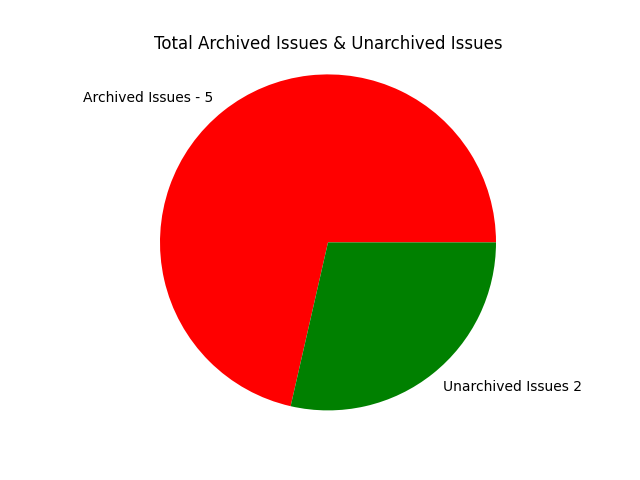
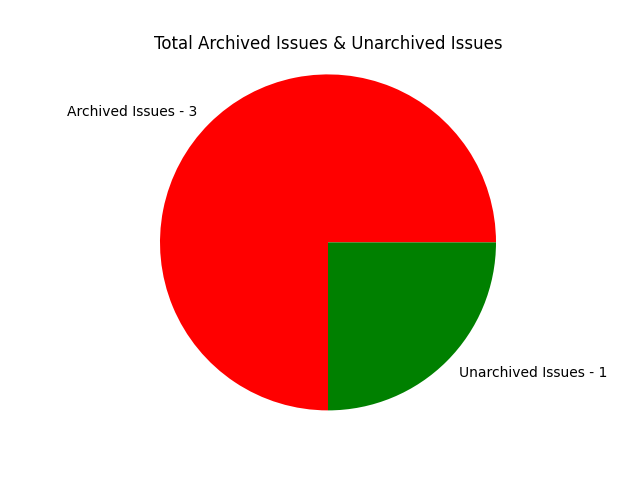
Login & archive
Created accounts and styled archived results in search

Changed region(s): [[0.4375, 0.5312, 0.5312, 0.875], [0.0938, 0.1875, 0.3438, 0.25], [0.6875, 0.75, 0.9062, 0.8125]]

diff --git a/templates/account_base.html b/templates/account_base.html
@@ -1,0 +1,27 @@
+<!DOCTYPE html>
+<html lang="en">
+<head>
+    <meta charset="UTF-8">
+    <meta name="viewport" content="width=device-width, initial-scale=1.0">
+    <title>Issue Tracker</title>
+    <link href="https://maxcdn.bootstrapcdn.com/bootstrap/4.5.2/css/bootstrap.min.css" rel="stylesheet">
+    <link rel="stylesheet" href="{{ url_for('static', filename='css/style.css') }}">
+</head>
+<body class="d-flex flex-column min-vh-100">
+    <div class="container my-auto">
+        <main class="row justify-content-center">
+            <div class="col-md-6">
+                {% block content %}{% endblock %}
+            </div>
+        </main>
+    </div>
+
+    <footer class="mt-auto py-3 text-center bg-light">
+        <p>View personal <a href="https://gregsternik.netlify.app" target="_blank">Site</a></p>
+    </footer>
+
+    <script src="https://ajax.googleapis.com/ajax/libs/jquery/3.5.1/jquery.min.js"></script>
+    <script src="https://cdnjs.cloudflare.com/ajax/libs/popper.js/1.16.0/umd/popper.min.js"></script>
+    <script src="https://maxcdn.bootstrapcdn.com/bootstrap/4.5.2/js/bootstrap.min.js"></script>
+</body>
+</html>

diff --git a/templates/account.html b/templates/account.html
@@ -1,0 +1,32 @@
+{% extends "base.html" %}
+
+{% block content %}
+
+<h2 class="text-center">Manage Account</h2>
+<p class="text-center">Welcome {{session['username']}}, manage your account and details here:</p>
+<div class="d-flex flex-column justify-content-center align-items-center">
+
+    <form action="/logout" method="POST">
+        <button class="btn btn-primary mb-2">Sign Out</button>
+    </form>
+
+    <form action="/delete_account" method="POST" id="delete_form">
+        <button type="button" class="delete-btn btn btn-danger">Delete Account</button>
+    </form>
+</div>
+
+<script src="https://code.jquery.com/jquery-3.6.0.min.js"></script>
+<script>
+    $(document).ready(() => {
+        console.log("click")
+
+        $(".delete-btn").on("click", () => {
+            if(confirm("This is a permanent action. Are you sure you want to delete your account?")){
+                $("#delete_form").submit();
+            }
+        })
+
+    })
+</script>
+
+{% endblock %}

diff --git a/templates/signup.html b/templates/signup.html
@@ -1,0 +1,33 @@
+{% extends "account_base.html" %}
+
+{% block content %}
+
+<h2 class="text-center">Sign Up</h2>
+<form action="signup" method="POST">
+    <div class="">
+
+        <div class="form-group">
+            <label for="username">Username</label>
+            <input required class="form-control" name="username" id="username" type="text">  
+        </div>
+
+        <div class="form-group">
+            <label for="password">Password</label>
+            <input required minlength="8" class="form-control" name="password" id="password" type="password">
+        </div>
+        
+        <button class="btn btn-primary">Submit</button>
+
+        {% if error %}
+            <p class="alert alert-warning">{{ error }}</p>
+        {% endif %}
+
+    </div>
+</form>
+
+<hr>
+<div class="row align-items-center justify-content-center">
+    <p class="mb-0 mr-2">or</p> <a href="/login">Login</a>
+</div>
+
+{% endblock %}

diff --git a/templates/login.html b/templates/login.html
@@ -1,0 +1,33 @@
+{% extends "account_base.html" %}
+
+{% block content %}
+
+<h2 class="text-center">Login</h2>
+<form action="login" method="POST">
+    <div class="">
+
+        <div class="form-group">
+            <label for="username">Username</label>
+            <input class="form-control" name="username" id="username" type="text">  
+        </div>
+
+        <div class="form-group">
+            <label for="password">Password</label>
+            <input class="form-control" name="password" id="password" type="password">
+        </div>
+        
+        <button class="btn btn-primary">Submit</button>
+
+        {% if error %}
+            <p class="alert alert-warning">{{ error }}</p>
+        {% endif %}
+
+    </div>
+</form>
+
+<hr>
+<div class="row align-items-center justify-content-center">
+    <p class="mb-0 mr-2">or</p> <a href="/signup">Signup</a>
+</div>
+
+{% endblock %}

diff --git a/templates/search.html b/templates/search.html
@@ -24,13 +24,17 @@
 {% if issues %}
     <div class="row search-result">
         {% for issue in issues %}
-            <div class="col-md-4 mb-4">
+            <div class="col-md-4 mb-4 mt-5">
                 <div class="card h-100">
-                    <div class="card-body">
+                    <div class="card-body search-result">
                         <h2 class="card-title">{{ issue[1] }}</h2>
                         <p class="card-text">ID: {{ issue[0] }}</p>
                         <p class="card-text">{{ issue[2] }}</p>
                         <a href="/issue_{{ issue[0] }}" class="link-primary">View</a>
+                        
+                        {% if issue[4] %}
+                        <div class="archived-tag">Archived</div>
+                        {% endif %}
                     </div>
                 </div>
             </div>

diff --git a/static/css/style.css b/static/css/style.css
@@ -17,3 +17,26 @@
 .dark{
     filter: brightness(0);
 }
+
+/* remainder of page after navbar */
+
+.fill{
+    min-height: calc(100vh - 56px - 56px)
+}
+
+/* Tag for archived results */
+
+.search-result{
+    position: relative;
+}
+
+.archived-tag{
+    position: absolute;
+    top: -45px;
+    left: 0px;
+    height: fit-content;
+    padding: 10px;
+    background-color: black;
+    color: white;
+    border-radius: 10px 10px 0px 0px;
+}

diff --git a/templates/base.html b/templates/base.html
@@ -26,6 +26,9 @@
                     <li class="nav-item">
                        <a class="nav-link" href="/add">Create</a> 
                     </li>
+                    <li class="nav-item">
+                        <a class="nav-link" href="/account">Account</a> 
+                     </li>
                 </ul>
             </div>
         </nav>

diff --git a/templates/issue.html b/templates/issue.html
@@ -13,7 +13,7 @@
         status-closed
     {% endif %}
     ">{{ issue[3] }}</p>
-
+    <p class="text-center">Author - {{ issue[5] }}</p>
     <hr>
 
     <form action="/issue_{{ issue[0] }}" method="POST" class="container mt-4">

diff --git a/app.py b/app.py
@@ -1,4 +1,4 @@
-from flask import Flask, render_template, request, redirect, url_for
+from flask import Flask, render_template, request, redirect, url_for, session
 import sqlite3
 
 import matplotlib
@@ -6,6 +6,7 @@ matplotlib.use('Agg')
 import matplotlib.pyplot as plt
 
 app = Flask(__name__)
+app.secret_key = b"6gtaptngf65/;g'7/e35#3]"
 
 # Function to get a SQLite connection
 def get_conn():
@@ -91,18 +92,86 @@ def create_graph():
         total = sum(counts)
         a_total = sum(a_counts)
 
-        plt.pie([total, a_total] , colors=["red", "green"],  labels=[f"Archived Issues - {total}", f"Unarchived Issues {a_total}"])
+        #error may occur due to lack of input
+        if total > 0 or a_total > 0:
+            plt.pie([total, a_total], colors=["red", "green"], labels=[f"Archived Issues - {total}", f"Unarchived Issues - {a_total}"])
+        else:
+            plt.pie([1, 1], colors=["red", "green"], labels=[f"No Archived Issues", f"No Unarchived Issues"])
         plt.title("Total Archived Issues & Unarchived Issues")
         plt.axis('equal') 
         plt.savefig("static/images/issues_archived_unarchived_total.png")
 
-        # Clear memory
         plt.clf()
         
+
+# Route to login
+@app.route("/login", methods=["GET", "POST"])
+def login():
+    if request.method == "POST":
+        username = request.form["username"]
+        password = request.form["password"]
+        
+        with get_conn() as conn:
+            cursor = conn.cursor()
+            cursor.execute("SELECT username, password FROM users WHERE username = ?", (username,))
+            user = cursor.fetchone()
+
+            if user and user[1] == password:
+                # Store user information in session
+                session['username'] = user[0]
+                session['password'] = user[1]
+                return redirect(url_for('home'))
+            else:
+                return render_template("login.html", error="Incorrect username or password")
+            
+            db_password = user[0]
+            
+            if db_password == password:
+                return redirect(url_for("home"))
+            else:
+                return redirect(url_for("login"))
+        
+    elif request.method == "GET":
+        return render_template("login.html")
+
+# Route to login/signup
+@app.route("/signup", methods=["GET", "POST"])
+def signup():
+    if request.method == "POST":
+        username = request.form["username"]
+        password = request.form["password"]
+        
+        with get_conn() as conn:
+            cursor = conn.cursor()
+
+            cursor.execute("SELECT * FROM users WHERE username = ?", (username,))
+            result = cursor.fetchone()
+
+            # SQLite doesn't enforce "UNIQUE" constraint so I have to check that it doesn't exist myself
+            if result is None:
+                cursor.execute("INSERT INTO users (username, password) VALUES (?, ?)", (username, password))
+                return redirect(url_for("login"))
+
+            conn.commit()
+            
+        return redirect(url_for("signup"))
+    
+    elif request.method == "GET":
+        return render_template("signup.html")
+
+@app.route("/account")
+def account():
+    return render_template("account.html")
 
 # Route to display all issues
 @app.route("/")
 def home():
+    #if user isn't logged in, there will be an error which will redirect the user to the login page
+    try:
+        session["username"]
+    except:
+        return redirect(url_for("login"))
+
     with get_conn() as conn:
         cursor = conn.cursor()
         cursor.execute("SELECT * FROM issues WHERE archivedOn IS NULL")
@@ -124,7 +193,7 @@ def add_issue():
         status = "Open"
         with get_conn() as conn:
             cursor = conn.cursor()
-            cursor.execute("INSERT INTO issues (title, description, status) VALUES (?, ?, ?)", (title, description, status))
+            cursor.execute("INSERT INTO issues (title, description, status, user) VALUES (?, ?, ?, ?)", (title, description, status, session["username"]))
             conn.commit()
         return redirect(url_for("home"))  # Redirect to home after adding issue
     return render_template("new_issue.html")
@@ -195,6 +264,21 @@ def search():
             issues = cursor.fetchall()
 
     return render_template("search.html", issues=issues)
+
+@app.route("/logout", methods=["POST"])
+def logout():
+    if request.method == "POST":
+        session.clear()
+        return redirect(url_for("home"))
+
+@app.route("/delete_account", methods=["POST"])
+def delete_account():
+    if request.method == "POST":
+        with get_conn() as conn:
+            cursor = conn.cursor()
+            cursor.execute("DELETE FROM users WHERE username = ?", (session["username"],))
+    session.clear()
+    return redirect(url_for("home"))
 
 if __name__ == '__main__':
     app.run(host="0.0.0.0", port=8080, debug=True)

diff --git a/database.py b/database.py
@@ -14,6 +14,16 @@ cursor.execute('''
     )
 ''')
 
+# Creates the "users" table if it does not exist
+cursor.execute('''
+    CREATE TABLE IF NOT EXISTS users (
+        id INTEGER PRIMARY KEY,
+        username TEXT NOT NULL,
+        password TEXT NOT NULL
+     )
+''')
+
+cursor.execute("INSERT INTO users (username, password) VALUES ('admin', 'pass')")
 
 cursor.execute("PRAGMA table_info(issues)")
 columns = cursor.fetchall()
@@ -21,6 +31,9 @@ column_names = [column[1] for column in columns]
 
 if 'archivedOn' not in column_names:
     cursor.execute('ALTER TABLE issues ADD COLUMN archivedOn DATE DEFAULT NULL')
+
+if 'user' not in column_names:
+    cursor.execute('ALTER TABLE issues ADD COLUMN user TEXT NOT NULL')
 
 conn.commit()
 conn.close()
